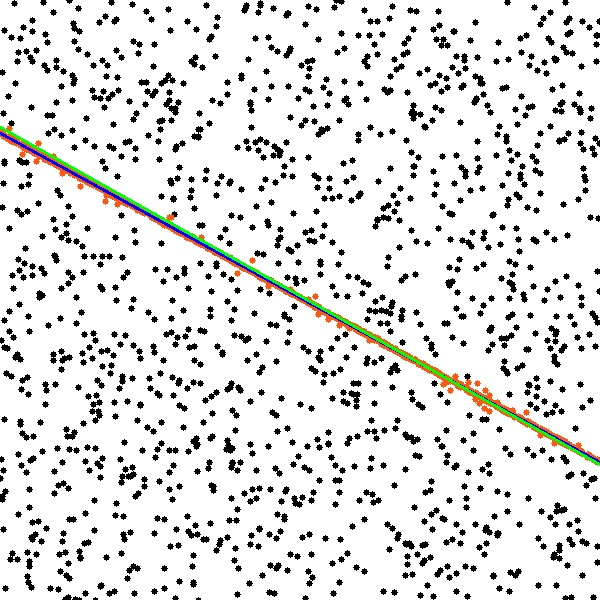
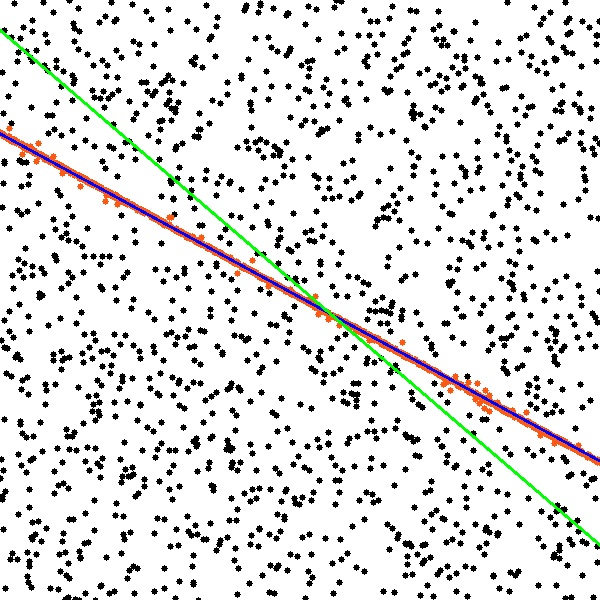
lo ransac

diff --git a/Usac/LocalOptimization/RansacLocalOptimization.h b/Usac/LocalOptimization/RansacLocalOptimization.h
@@ -129,6 +129,7 @@ public:
              */
 
             Drawing drawing;
+            cv::Scalar color = cv::Scalar (random()%256,random()%256,random()%256);
 
             for (int iterations = 0; iterations < lo_iterative_iterations; iterations++) {
                 lo_model->threshold -= reduce_threshold;
@@ -140,12 +141,12 @@ public:
 
                 quality->GetModelScore(estimator, lo_model, input_points, points_size, *lo_score, current_inliers, true);
                 std::cout << "lo iterative score  = " << lo_score->inlier_number << '\n';
-                std::cout << "lo model  = " << lo_model->returnDescriptor() << '\n';
+//                std::cout << "lo model  = " << lo_model->returnDescriptor() << '\n';
 
                 cv::Mat img = cv::imread ("../dataset/image1.jpg");
                 int rows = img.rows;
                 int cols = img.cols;
-                drawing.draw_model(lo_model, std::max(rows, cols), cv::Scalar (255,0,0), img, true);
+                drawing.draw_model(lo_model, std::max(rows, cols), color, img, true);
                 std::vector<int> inl;
                 for (int i = 0; i < lo_score->inlier_number; i++) {
                     inl.push_back(current_inliers[i]);
@@ -156,7 +157,7 @@ public:
 
                 // if current model is not better then break
                 if (best_lo_score > lo_score) {
-                    break;
+//                    break;
                 }
 
             }

diff --git a/Usac/Estimator/Line2DEstimator.h b/Usac/Estimator/Line2DEstimator.h
@@ -40,14 +40,26 @@ public:
         float *points_arr = (float *) points.data;
         float a, b, c;
 
+
         for (int i = 0; i < sample_size; i++) {
-            float w = 1/(input_points[2*sample[i]+1] - (-c -a*input_points[2*sample[i]])/b);
-            w *= w;
-            std::cout << "weight " << w << '\n';
-            *points_arr++ = input_points[2*sample[i]];
-            *points_arr++ = input_points[2*sample[i]+1];
+            float residualy = input_points[2*sample[i]+1] - (- this->a * input_points[2*sample[i]] - this->c)/(this->b+0.001);
+            float residualx = input_points[2*sample[i]] - (- this->b * input_points[2*sample[i]+1] - this->c)/(this->a+0.001);
+
+            float residual = sqrt (residualx * residualx + residualy * residualy);
+
+            float w;
+            if (residual <= 1) w = 1;
+            else w = 1/residual;
+
+//            std::cout << residualx << " " << residualy << '\n';
+            std::cout << w << '\n';
+            *points_arr++ = input_points[2*sample[i]] *w;
+            *points_arr++ = input_points[2*sample[i]+1] *w;
         }
 
+
+
+        return;
 
         cv::Mat covar, eigenvecs, means, eigenvals;
         // Find the covariance matrix

diff --git a/matlab/read_points.m b/matlab/read_points.m
@@ -35,17 +35,18 @@ end
 % F  = sevenpoint (pts1, pts2, 800)
 
 % keyboard
-% H_DLT = DLT(pts1, pts2);
-[T_1, offset_1, s_1, s1_1, s2_1] = GetNormalizingTransformation(pts1);
-[T_2, offset_2, s_2, s1_2, s2_2] = GetNormalizingTransformation(pts2);
-    
-pts1Tr=(T_1*[pts1';ones(1,sz)])';
-pts2Tr=(T_2*[pts2';ones(1,sz)])';
+H_DLT = DLT(pts1, pts2);
 
-pts1Tr=pts1Tr(:,1:2);
-pts2Tr=pts2Tr(:,1:2);
-    
-Npts = [pts1Tr pts2Tr]
+% [T_1, offset_1, s_1, s1_1, s2_1] = GetNormalizingTransformation(pts1);
+% [T_2, offset_2, s_2, s1_2, s2_2] = GetNormalizingTransformation(pts2);
+%     
+% pts1Tr=(T_1*[pts1';ones(1,sz)])';
+% pts2Tr=(T_2*[pts2';ones(1,sz)])';
+% 
+% pts1Tr=pts1Tr(:,1:2);
+% pts2Tr=pts2Tr(:,1:2);
+%     
+% Npts = [pts1Tr pts2Tr]
 
 %H_NormalizedDLT = NormalizedDLT(pts1, pts2);
 % 

diff --git a/Usac/Model.h b/Usac/Model.h
@@ -21,10 +21,10 @@ public:
 	 * Local Optimization parameters
 	 */
 	unsigned int lo_sample_size = 14;
-	unsigned int lo_iterative_iterations = 2;
-    unsigned int lo_max_iterations = 3;
+	unsigned int lo_iterative_iterations = 4;
+    unsigned int lo_max_iterations = 5;
     float lo_threshold = 10.0;
-    unsigned int lo_threshold_multiplier = 2;
+    unsigned int lo_threshold_multiplier = 6;
 
     cv::Mat descriptor;
 	

diff --git a/matlab/DLT.m b/matlab/DLT.m
@@ -16,5 +16,6 @@ function H=DLT(pts1,pts2)
 
     h=V(:,9);
     H=[h(1),h(2),h(3);h(4),h(5),h(6);h(7),h(8),h(9)];
-
+    
+    keyboard
 end
